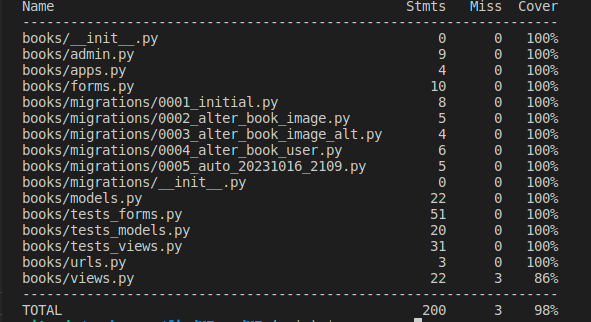
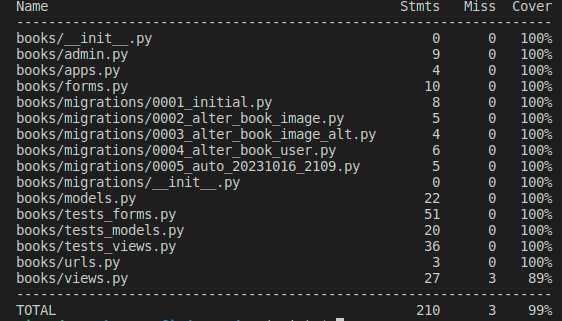
docs: document testing of book deletion

diff --git a/README_testing.md b/README_testing.md
@@ -35,9 +35,11 @@ The [Nu Html Checker](https://validator.w3.org/nu/) web-based tool by W3 was use
     - [Log In](https://validator.w3.org/nu/?showsource=yes&showoutline=yes&showimagereport=yes&doc=https%3A%2F%2Ffindme-readme-10d0bfb3ba28.herokuapp.com%2Faccounts%2Flogin)
     - [Sing up](https://validator.w3.org/nu/?showsource=yes&showoutline=yes&showimagereport=yes&doc=https%3A%2F%2Ffindme-readme-10d0bfb3ba28.herokuapp.com%2Faccounts%2Fsignup%2F)
     - [Logout](./docs/testing/html/html_logout.png)
-- Books
+- Book Pages
     - [Register Book](./docs/testing/html/html_register_book.png)
     - [Latest Books](./docs/testing/html/html_books.png)
+    - [Book Detail](./docs/testing/html/html_book_detail.png)
+    - [Book Deletion](./docs/testing/html/html_book_delete.png)
 
 
 
@@ -82,7 +84,7 @@ The Lighthouse in Chrome DevTools evaluates the webpage for performance, accessi
 | Module            | Report | Total Coverage   |
 |-------------------|--------|------------------|
 | `home`            | <img src="./docs/testing/automated/python_home.png" alt="python_home" width="200"/>   | 100% |
-|`books`     | <img src="./docs/testing/automated/python_books.png" alt="python_books" width="200"/> | 98% |
+|`books`     | <img src="./docs/testing/automated/python_books.png" alt="python_books" width="200"/> | 99% |
 
 
 Todo: Testing 
